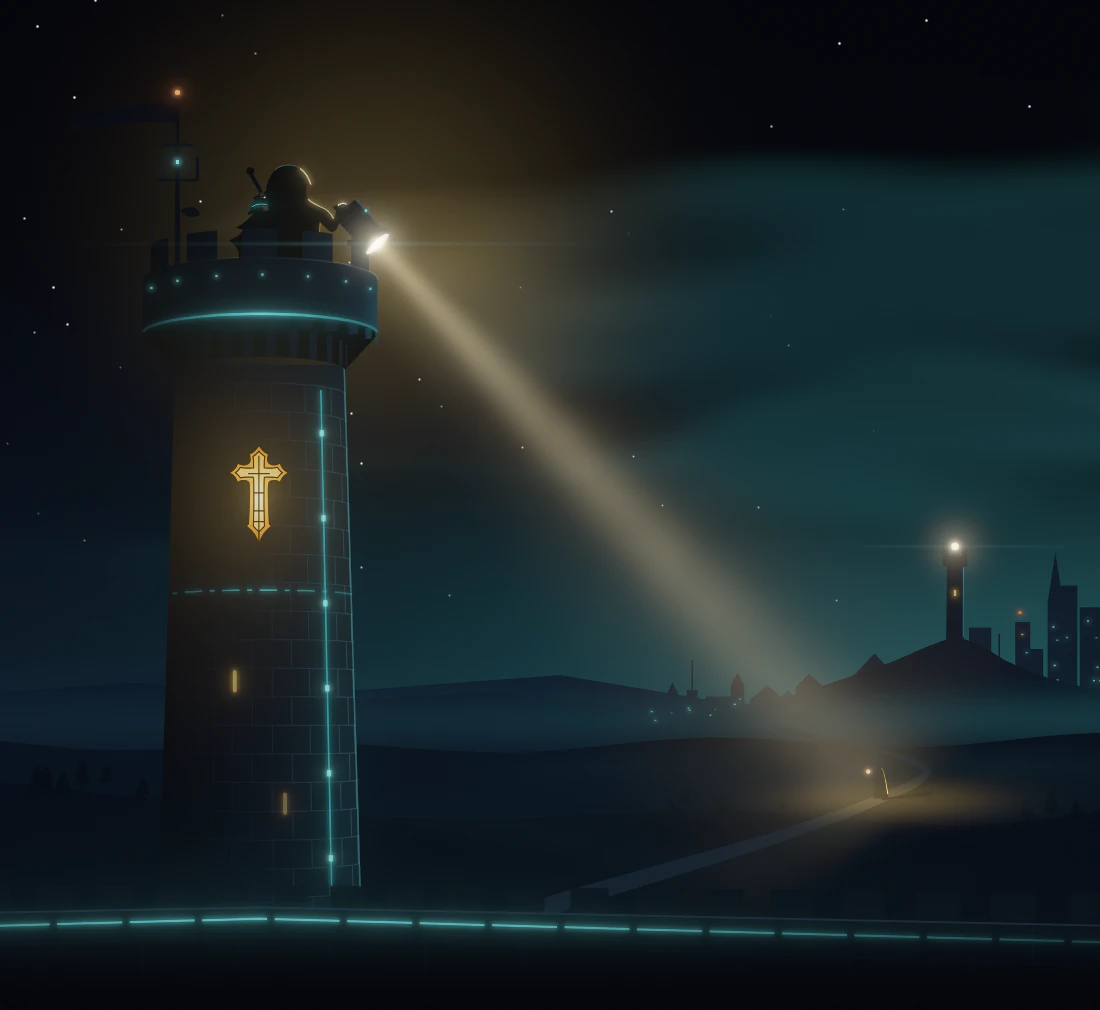
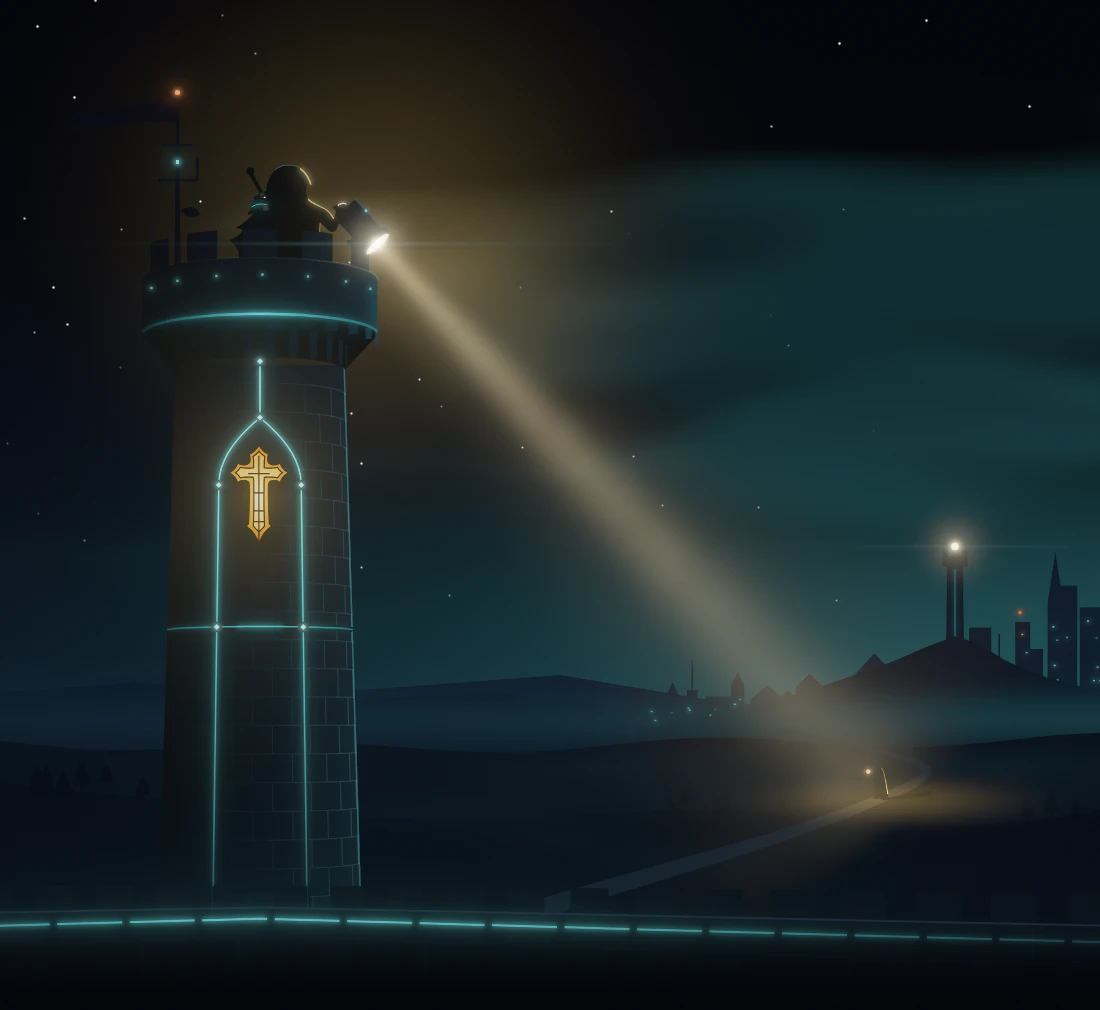
watchtower: one lit window, and channels of light cut into the stone
The two stray gold slits are gone: the logo-cross window is the tower's one lit
window. The off-centre conduit and dashed ring become a symmetric pair of channels
inlaid in the stone (dark groove, bright core) that part around the window as a
pointed arch, meet above it and run into the crown, tied by one ring at mid-tower.
The pulse of light now rises up both channels together.

Changed region(s): [[0.1545, 0.3376, 0.3091, 0.8901], [0.8655, 0.5832, 0.8964, 0.6139]]

diff --git a/index.html b/index.html
@@ -211,9 +211,10 @@
   @keyframes wt-flick { 0%,100% { opacity: .7; transform: scale(.9); } 40% { opacity: 1; transform: scale(1.1); } 70% { opacity: .8; } }
   .wt-motes circle { fill: #fff1cf; opacity: 0; animation: wt-mote 9s linear infinite; }
   @keyframes wt-mote { 0% { opacity: 0; transform: translate(0, 0); } 25%, 70% { opacity: .8; } 100% { opacity: 0; transform: translate(-6px, 8px); } }
-  .wt-signal { fill: none; stroke: #b9f4f2; stroke-width: 1; stroke-linecap: round; stroke-dasharray: 5 95; stroke-dashoffset: 5;
-    opacity: .9; animation: wt-up 5.5s cubic-bezier(.45, 0, .2, 1) infinite; }
-  @keyframes wt-up { 0% { stroke-dashoffset: 5; opacity: 0; } 8% { opacity: .9; } 55% { stroke-dashoffset: -95; opacity: .9; } 60%, 100% { stroke-dashoffset: -95; opacity: 0; } }
+  .wt-signal { fill: none; stroke: #f2fffe; stroke-width: 1.3; stroke-linecap: round; stroke-dasharray: 6 94; stroke-dashoffset: 6;
+    opacity: 0; animation: wt-up 5.5s cubic-bezier(.45, 0, .2, 1) infinite; }
+  .wt-signal-halo { stroke: #6fe0e0; stroke-width: 5; stroke-opacity: .28; }
+  @keyframes wt-up { 0% { stroke-dashoffset: 6; opacity: 0; } 8% { opacity: .9; } 55% { stroke-dashoffset: -95; opacity: .9; } 60%, 100% { stroke-dashoffset: -95; opacity: 0; } }
   @media (prefers-reduced-motion: reduce) {
     .wt-fx * { animation: none !important; }
     .wt-motes, .wt-signal { display: none; }
@@ -448,7 +449,10 @@
           <radialGradient id="wtEmber"><stop offset="0" stop-color="#ffc38a"/><stop offset=".35" stop-color="#e4723c" stop-opacity=".55"/><stop offset="1" stop-color="#e4723c" stop-opacity="0"/></radialGradient>
           <clipPath id="wtBeam"><polygon points="823.4,114.8 830.4,108.3 1053.3,310.9 1006.0,354.3"/></clipPath>
         </defs>
-        <path class="wt-signal" d="M808.89 380L804.34 170" pathLength="100"/>
+        <path class="wt-signal wt-signal-halo" d="M761.15 376L763.53 208C763.53 196 773 187 780 181L780 141" pathLength="100"/>
+        <path class="wt-signal" d="M761.15 376L763.53 208C763.53 196 773 187 780 181L780 141" pathLength="100"/>
+        <path class="wt-signal wt-signal-halo" d="M798.85 376L796.47 208C796.47 196 787 187 780 181L780 141" pathLength="100"/>
+        <path class="wt-signal" d="M798.85 376L796.47 208C796.47 196 787 187 780 181L780 141" pathLength="100"/>
         <g class="wt-motes" clip-path="url(#wtBeam)">
           <circle cx="852.6" cy="134.4" r="0.49" style="animation-duration:7.8s;animation-delay:-0.8s"/>
           <circle cx="860.8" cy="155.1" r="0.63" style="animation-duration:10.8s;animation-delay:-2.7s"/>

diff --git a/tools/watchtower/paint.py b/tools/watchtower/paint.py
@@ -97,6 +97,21 @@ def ring(y, r, a0=0.0, a1=math.pi, n=48):
              y - ry(y, r) * math.sin(a0 + (a1 - a0) * i / n)) for i in range(n + 1)]
 
 
+CHANNEL_A = 0.484          # the channels sit this far round from the front (radians)
+RING_Y, ARCH_Y, APEX_Y = 266.0, 208.0, 181.0
+
+
+def channel_x(side, y):
+    return TX + side * r_shaft(y) * math.sin(CHANNEL_A)
+
+
+def channel(side):
+    """One channel of light, from behind the wall up round the window and into the crown."""
+    x0, xa = channel_x(side, 392), channel_x(side, ARCH_Y)
+    return (f"M{f(x0)} 392 L{f(xa)} {f(ARCH_Y)} C{f(xa)} {f(ARCH_Y - 12)} {f(TX + side * 7)} {f(APEX_Y + 6)} "
+            f"{TX} {f(APEX_Y)} L{TX} 141")
+
+
 def rot(pt, deg, origin):
     a = math.radians(deg)
     x, y = pt
@@ -155,9 +170,8 @@ def far_layer(rnd):
     g.append(f'<path d="{poly([(px - 3.6, py + 2), (px - 3.2, 240), (px + 3.2, 240), (px + 3.6, py + 2)])}" fill="#0a1320"/>')
     g.append(f'<path d="{poly([(px - 5, 240.6), (px - 5, 236.4), (px + 5, 236.4), (px + 5, 240.6)])}" fill="#0a1320"/>')
     g.append(f'<path d="M{f(px - 5)} 236.4h2.2v-2.4h-2.2zM{f(px - 1.1)} 236.4h2.2v-2.4h-2.2zM{f(px + 2.8)} 236.4h2.2v-2.4h-2.2z" fill="#0a1320"/>')
-    g.append(f'<path d="M{f(px + 3.3)} 241v28" stroke="#3cb0b4" stroke-width="0.5" opacity="0.45"/>')
+    g.append(f'<path class="emit" d="M{f(px)} 241.5v27" stroke="#3cb0b4" stroke-width="0.45" opacity="0.6"/>')
     g.append(f'<circle class="emit" cx="{f(FAR_BEACON[0])}" cy="{f(FAR_BEACON[1])}" r="1.5" fill="#fff0c8"/>')
-    g.append(f'<rect class="emit" x="{f(px - 0.5)}" y="250" width="1" height="2.4" fill="#f0c666" opacity="0.8"/>')
     return g
 
 
@@ -278,19 +292,28 @@ def tower_layer(rnd):
     # rim light from the city, down the right edge
     g.append(f'<path d="M{f(TX + r_shaft(top) - 0.3)} {top} L{f(TX + r_shaft(bot) - 0.3)} {bot}" stroke="#5fc2c6" stroke-width="0.6" opacity="0.4"/>')
 
-    # tech: a conduit up the lit side, carrying the field's signal up to the watch
-    a = 0.78
-    cx0, cx1 = TX + r_shaft(170) * math.cos(a), TX + r_shaft(380) * math.cos(a)
-    g.append(f'<path class="emit" d="M{f(cx1)} 380 L{f(cx0)} 170" stroke="#3cb0b4" stroke-width="0.7" opacity="0.75"/>')
-    for y in range(186, 380, 34):
-        xx = TX + r_shaft(y) * math.cos(a)
-        g.append(f'<rect class="emit" x="{f(xx - 0.9)}" y="{y}" width="1.8" height="2.6" rx="0.4" fill="#7fe3e3" opacity="0.85"/>')
-    # a broken ring of light at the mid-tower
-    yr = 252
-    g.append(f'<path class="emit" d="{smooth(ring(yr, r_shaft(yr) + 0.2, 0.1, math.pi - 0.1, 30))}" stroke="url(#neon)" stroke-width="0.7" fill="none" stroke-dasharray="7 3 2 3" opacity="0.7"/>')
+    # tech: channels of light cut into the stone, not stuck on it. Two rise from the wall, part around
+    # the cross window as a pointed arch, meet above it and run up into the crown where he stands.
+    # A ring ties them together at mid-tower.
+    g.append('<defs><linearGradient id="rise" gradientUnits="userSpaceOnUse" x1="0" y1="392" x2="0" y2="141">'
+             '<stop offset="0" stop-color="#6fe0e0" stop-opacity=".18"/><stop offset=".45" stop-color="#6fe0e0" stop-opacity=".75"/>'
+             '<stop offset=".7" stop-color="#7fe8e6"/><stop offset="1" stop-color="#a8f5f2"/></linearGradient></defs>')
+    groove = lambda d, core: (f'<path d="{d}" stroke="#020407" stroke-width="2.1" fill="none" stroke-linejoin="round"/>'
+                              f'<path d="{d}" stroke="#0f2229" stroke-width="1.3" fill="none" stroke-linejoin="round"/>'
+                              f'<path class="emit" d="{d}" stroke="{core}" stroke-width="0.62" fill="none" stroke-linejoin="round"/>')
+    yr = RING_Y
+    ring_d = smooth(ring(yr, r_shaft(yr) + 0.05, 0.06, math.pi - 0.06, 40))
+    g.append(groove(ring_d, "url(#neon)"))
+    for side in (-1, 1):
+        g.append(groove(channel(side), "url(#rise)"))
+    nodes = [(channel_x(side, yr), yr - ry(yr, r_shaft(yr)) * math.cos(CHANNEL_A)) for side in (-1, 1)]
+    nodes += [(channel_x(side, ARCH_Y), ARCH_Y) for side in (-1, 1)] + [(TX, APEX_Y), (TX, 158.5)]
+    for x, y in nodes:
+        g.append(f'<path d="M{f(x)} {f(y - 2.2)}l2.2 2.2l-2.2 2.2l-2.2 -2.2z" fill="#020407"/>')
+        g.append(f'<path class="emit" d="M{f(x)} {f(y - 1.2)}l1.2 1.2l-1.2 1.2l-1.2 -1.2z" fill="#a8f5f2"/>')
 
     # a window in the shape of the logo's cross, lit by the lamps inside: the logo's band of metal is
-    # amber glass, its middle clear glass, leaded between. Two arrow slits below.
+    # amber glass, its middle clear glass, leaded between. It is the tower's one lit window.
     band, outer, inner = logo_cross()
     s = WINDOW_H / 163.5                             # the logo cross is 163.5 tall in icon.svg
     lead = "#1a1107"
@@ -307,8 +330,6 @@ def tower_layer(rnd):
              f'<path d="{inner}" fill="none" stroke="{lead}" stroke-width="1.9"/>'
              f'<path d="{outer}" fill="none" stroke="{lead}" stroke-width="2.6"/>'
              '</g>')
-    g.append(f'<rect class="emit" x="{TX - 10.9}" y="282" width="1.6" height="9" rx="0.8" fill="#f0c666" opacity="0.55"/>')
-    g.append(f'<rect class="emit" x="{TX + 9.2}" y="331" width="1.6" height="9" rx="0.8" fill="#f0c666" opacity="0.35"/>')
 
     # corbels under the crown
     rc, yc0, yc1 = 47, 148, 162
